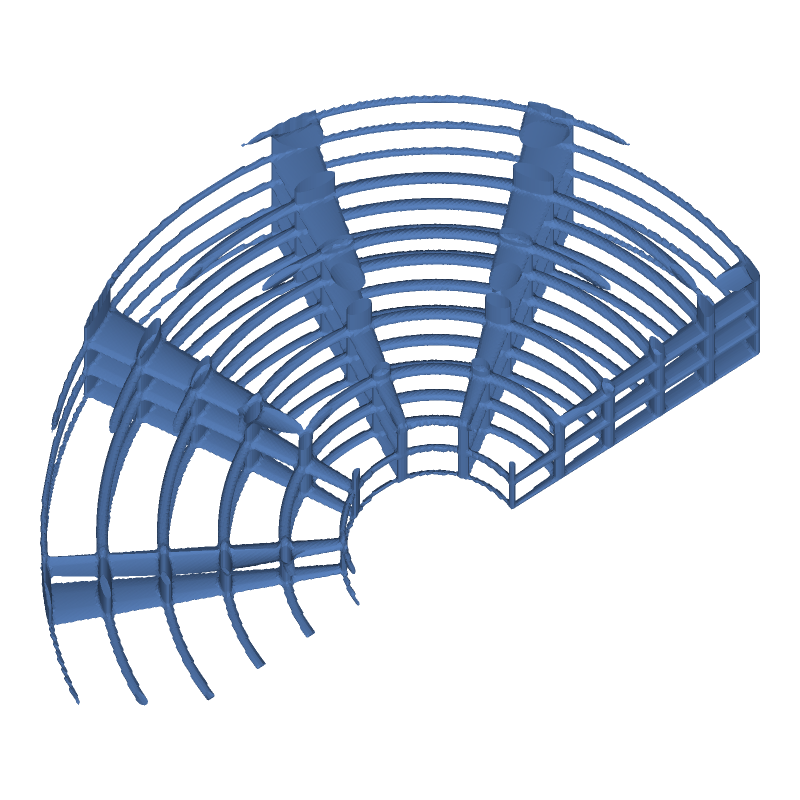
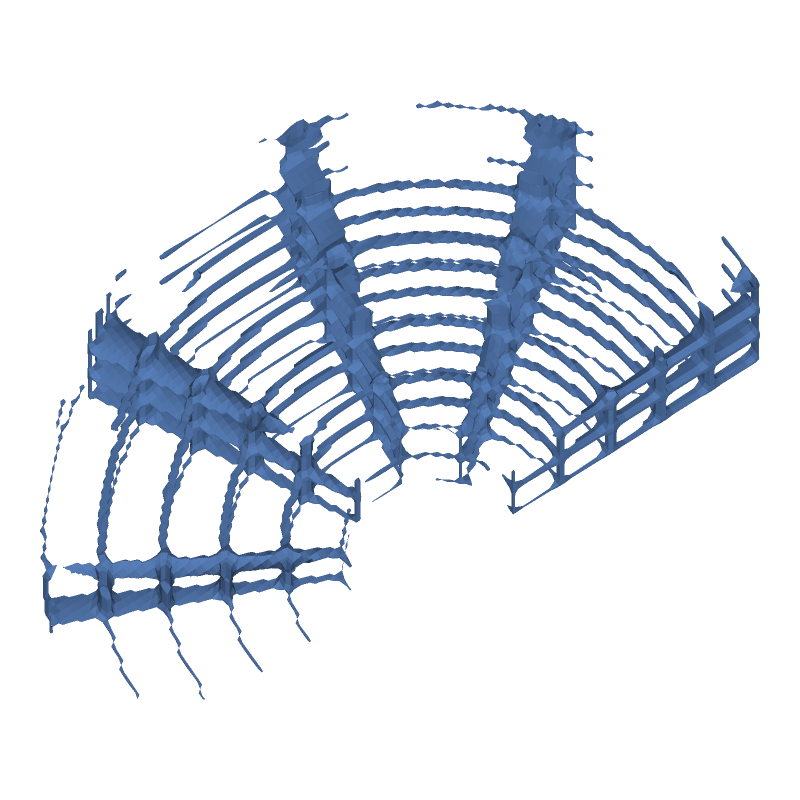
C1: angle-preserving log-polar conformal map (conformal_log) with constant-Lambda normalisation, 5 tests, sc_conformal_log preset (volume ratio 2.09 at res 128 vs predicted 2.044, converging), renders at res 128; sc_cylinder_wrap re-rendered; docs updated

Changed region(s): [[0.0312, 0.0938, 0.9688, 0.875], [0.3125, 0.8125, 0.3438, 0.8438]]

diff --git a/src/graph/graph.ts b/src/graph/graph.ts
@@ -38,6 +38,9 @@ export type TransformSpec =
   // Cylinder projection (C1, partial): source (s, t, z) is wrapped onto a cylinder of radius R about z.
   // s is arc length from the phase angle phi0 (s = s0 at phi0), t is the radial offset from R.
   | { op: "wrap"; radius: number; phase: number; s0: number }
+  // Conformal log-polar map (C1): w = r0 * exp((x + i y) / scale). Angle-preserving; the local scale is |w|/scale.
+  // The source y-extent must stay inside (-pi*scale, pi*scale] so the angle does not wrap.
+  | { op: "conformal_log"; r0: number; scale: number }
   | { op: "shear"; a: number; b: number; c: number }
   | { op: "gradient"; axis: "x" | "y" | "z"; slope: number; centre: number }
   // Offset-type density functions (B3): f' = f - g(x). g is a scalar field of the point.
@@ -127,6 +130,10 @@ function checkTransform(n: GraphNode & { kind: "transform" }, issues: GraphIssue
       break;
     case "stretch":
       need(isVec3(t.factors) && (t.factors as Vec3).every((f) => f > 0), "stretch: factors must be positive 3-vector");
+      break;
+    case "conformal_log":
+      need(isNum(t.r0) && (t.r0 as number) > 0, "conformal_log: r0 must be > 0");
+      need(isNum(t.scale) && (t.scale as number) > 0, "conformal_log: scale must be > 0");
       break;
     case "wrap":
       need(isNum(t.radius) && (t.radius as number) > 0, "wrap: radius must be > 0");
@@ -304,6 +311,8 @@ function inverseMap(t: TransformSpec): ((p: Vec3) => Vec3) | null {
       };
     case "stretch":
       return (p) => [p[0] / t.factors[0], p[1] / t.factors[1], p[2] / t.factors[2]];
+    case "conformal_log":
+      return conformalLog(t).inverse;
     case "wrap":
       return (p) => {
         const r = Math.hypot(p[0], p[1]);
@@ -406,6 +415,11 @@ function transformBounds(b: Bounds, t: TransformSpec): Bounds {
     if (min.some((v, a) => v >= max[a])) throw new Error("clip: the shape does not overlap the field bounds");
     return { min, max } as Bounds;
   }
+  if (t.op === "conformal_log") {
+    // The image of the box lies in the square of half-width r0 * exp(x_max / scale).
+    const R = t.r0 * Math.exp(b.max[0] / t.scale);
+    return { min: [-R, -R, b.min[2]], max: [R, R, b.max[2]] } as Bounds;
+  }
   if (t.op === "wrap") {
     const rOut = t.radius + Math.max(Math.abs(b.min[1]), Math.abs(b.max[1]));
     return { min: [-rOut, -rOut, b.min[2]], max: [rOut, rOut, b.max[2]] } as Bounds;
@@ -431,6 +445,18 @@ function transformBounds(b: Bounds, t: TransformSpec): Bounds {
   return { min, max } as Bounds;
 }
 
+/** Conformal log-polar map and its inverse (C1). Exported for tests. */
+export function conformalLog(t: { r0: number; scale: number }): { forward: (p: Vec3) => Vec3; inverse: (p: Vec3) => Vec3 } {
+  const r0 = t.r0, s = t.scale;
+  return {
+    forward: (p) => {
+      const m = r0 * Math.exp(p[0] / s), th = p[1] / s;
+      return [m * Math.cos(th), m * Math.sin(th), p[2]];
+    },
+    inverse: (p) => [s * Math.log(Math.hypot(p[0], p[1]) / r0), s * Math.atan2(p[1], p[0]), p[2]],
+  };
+}
+
 /** Angle wrapped into (-pi, pi]. */
 function wrapAngle(a: number): number {
   let x = a % (2 * Math.PI);
@@ -454,6 +480,8 @@ function forwardMap(t: TransformSpec, p: Vec3): Vec3 {
     }
     case "stretch":
       return [p[0] * t.factors[0], p[1] * t.factors[1], p[2] * t.factors[2]];
+    case "conformal_log":
+      return conformalLog(t).forward(p);
     case "wrap": {
       const phi = t.phase + (p[0] - t.s0) / t.radius, rr = t.radius + p[1];
       return [rr * Math.cos(phi), rr * Math.sin(phi), p[2]];
@@ -552,6 +580,22 @@ export function compileGraph(g: StructureGraph, structureId: string): Field {
     }
     const inv = inverseMap(t)!;
     const b = transformBounds(inner.bounds, t);
+    if (t.op === "conformal_log") {
+      // Conformal: the inverse Jacobian has norm scale/|w|, largest at the smallest radius in the source box.
+      // Lambda = sup |D inverse| = scale / (r0 * exp(x_min / scale)). Dividing by it keeps the field 1-Lipschitz,
+      // and the zero set is unchanged.
+      const xMin = (inner.bounds as { min: number[] }).min[0];
+      const lambda = t.scale / (t.r0 * Math.exp(xMin / t.scale));
+      field = {
+        bounds: b,
+        eval: (x, y, z) => {
+          const q = inv([x, y, z]);
+          return inner.eval(q[0], q[1], q[2]) / lambda;
+        },
+        expr: `(${inner.expr}) o conformal_log(r0=${t.r0}, s=${t.scale}) / ${lambda.toFixed(4)}`,
+      };
+      continue;
+    }
     if (t.op === "wrap") {
       // Wrap: the stretch rr/R varies strongly with radius, so a pointwise division by sigma(x) would add
       // a product term f*grad(1/sigma) that breaks the Lipschitz bound. Use a constant instead:

diff --git a/tests/conformal.test.ts b/tests/conformal.test.ts
@@ -1,0 +1,92 @@
+import { test } from "node:test";
+import assert from "node:assert/strict";
+import { compileGraph, validateGraph, conformalLog, type StructureGraph } from "../src/graph/graph.ts";
+
+const R0 = 16, S = 20;
+const map = conformalLog({ r0: R0, scale: S });
+
+function graph(source: object, transform: object): StructureGraph {
+  return {
+    version: 1,
+    nodes: [
+      { id: "src", kind: "field", source: source as never },
+      { id: "t0", kind: "transform", transform: transform as never },
+      { id: "out", kind: "structure", name: "conf" },
+    ],
+    edges: [{ from: "src", to: "t0" }, { from: "t0", to: "out" }],
+  };
+}
+const sphere = { type: "sphere", radius: 5 };
+const confT = { op: "conformal_log", r0: R0, scale: S };
+
+test("conformal: the Jacobian of the forward map is (|w|/scale)^2 times the identity (angles preserved)", () => {
+  const h = 1e-6;
+  for (const q of [[2, 1, 0.5], [-3, 4, -1], [0.5, -2, 2], [4.5, 0.2, 0]] as [number, number, number][]) {
+    const J: number[][] = [[0, 0], [0, 0]];
+    for (let c = 0; c < 2; c++) {
+      const a = [...q] as [number, number, number], b = [...q] as [number, number, number];
+      a[c] += h;
+      b[c] -= h;
+      const fa = map.forward(a), fb = map.forward(b);
+      J[0][c] = (fa[0] - fb[0]) / (2 * h);
+      J[1][c] = (fa[1] - fb[1]) / (2 * h);
+    }
+    const w = map.forward(q);
+    const m = Math.hypot(w[0], w[1]) / S;
+    // J is m * (rotation): J^T J = m^2 I.
+    const jtj = [
+      [J[0][0] ** 2 + J[1][0] ** 2, J[0][0] * J[0][1] + J[1][0] * J[1][1]],
+      [J[0][1] * J[0][0] + J[1][1] * J[1][0], J[0][1] ** 2 + J[1][1] ** 2],
+    ];
+    assert.ok(Math.abs(jtj[0][0] - m * m) < 1e-6 * m * m, `diag at ${q}`);
+    assert.ok(Math.abs(jtj[1][1] - m * m) < 1e-6 * m * m, `diag at ${q}`);
+    assert.ok(Math.abs(jtj[0][1]) < 1e-6 * m * m, `off-diagonal at ${q}`);
+  }
+});
+
+test("conformal: inverse of forward is the identity; z is unchanged", () => {
+  for (const q of [[2, 1, 0.5], [-3, 4, -1], [4.5, 0.2, 7]] as [number, number, number][]) {
+    const back = map.inverse(map.forward(q));
+    for (let a = 0; a < 3; a++) assert.ok(Math.abs(back[a] - q[a]) < 1e-12);
+  }
+});
+
+test("conformal: zero set of the sphere maps to the zero set of the field; interior value is scaled", () => {
+  const g = compileGraph(graph(sphere, confT), "out");
+  // Source points on the sphere |q| = 5 (y range stays well inside the angle limit).
+  for (const a of [0, 0.7, 1.9, 3.0]) {
+    const q = [5 * Math.cos(a), 5 * Math.sin(a), 0] as [number, number, number];
+    const p = map.forward(q);
+    assert.ok(Math.abs(g.eval(p[0], p[1], p[2])) < 1e-9, `zero at angle ${a}`);
+  }
+  // Interior point |q| = 2: value (2 - 5) / lambda, lambda = scale / (r0 exp(x_min/scale)) with x_min = -5.
+  const lambda = S / (R0 * Math.exp(-5 / S));
+  const q = [2, 0, 0] as [number, number, number];
+  const p = map.forward(q);
+  assert.ok(Math.abs(g.eval(p[0], p[1], p[2]) - (2 - 5) / lambda) < 1e-12);
+});
+
+test("conformal: 1-Lipschitz on the image of the source box", () => {
+  const g = compileGraph(graph(sphere, confT), "out");
+  let seed = 5;
+  const rnd = () => ((seed = (seed * 16807) % 2147483647) / 2147483647) * 10 - 5;
+  for (let i = 0; i < 300; i++) {
+    const q = [rnd(), rnd(), rnd()] as [number, number, number];
+    const d = [q[0] + 0.03, q[1] - 0.02, q[2] + 0.01] as [number, number, number];
+    const p = map.forward(q), pp = map.forward(d);
+    const dist = Math.hypot(p[0] - pp[0], p[1] - pp[1], p[2] - pp[2]);
+    const df = Math.abs(g.eval(p[0], p[1], p[2]) - g.eval(pp[0], pp[1], pp[2]));
+    assert.ok(df <= dist + 1e-9, `Lipschitz at ${q}: ${df} > ${dist}`);
+  }
+});
+
+test("conformal: bounds contain the image of the source box corners; validation", () => {
+  const g = compileGraph(graph(sphere, confT), "out");
+  for (const x of [-5, 5]) for (const y of [-5, 5]) {
+    const p = map.forward([x, y, 0]);
+    assert.ok(Math.abs(p[0]) <= g.bounds.max[0] && Math.abs(p[1]) <= g.bounds.max[1], `corner (${x},${y}) inside bounds`);
+  }
+  assert.deepEqual(validateGraph(graph(sphere, confT)), []);
+  assert.ok(validateGraph(graph(sphere, { op: "conformal_log", r0: 0, scale: 20 })).some((i) => i.code === "bad_param"));
+  assert.ok(validateGraph(graph(sphere, { op: "conformal_log", r0: 16, scale: -1 })).some((i) => i.code === "bad_param"));
+});

diff --git a/docs/STRUCTURE_GRAPH.md b/docs/STRUCTURE_GRAPH.md
@@ -34,7 +34,18 @@ Not yet implemented from B3: user expression nodes (needs a safe, sandboxed expr
 - Not volume preserving: the Jacobian is (R+t)/R, so outer material is stretched tangentially and struts thicken with radius. This is a property of wrapping, not an error; a constant strut diameter would need a per-strut radius correction (not done).
 - Tests: the source sphere's zero set maps onto the cylinder (forward/inverse consistency); 1-Lipschitz inside the domain (R = 20, sphere radius 5).
 - Preset `presets/sc_cylinder_wrap.json`: SC lattice (cell 4, 5 cells, r 0.4) wrapped on R = 6, a curved sector of about 190°. At graph_check res 96 (spacing-matched to 250): volume 1547.3 mm³ vs flat source 609.0 mm³ (ratio 2.54, close to the mean Jacobian 2.67 over t ∈ [0, 20]), 0 floating components. Render: `examples/graph_presets/sc_cylinder_wrap_iso.png`.
-- Not done from C1: conformal (harmonic) mapping on a parameter plane; general surface projection.
+- Not done from C1: harmonic (general) conformal mapping on an arbitrary parameter plane; general surface projection. The log-polar conformal map below is the one conformal case implemented.
+- Render: `examples/graph_presets/sc_cylinder_wrap_{iso,top}.png` (res 96, 57,696 triangles). Thin struts show some aliasing where they are narrow relative to the grid spacing.
+
+## Conformal log-polar map (C1, second op)
+`{ "op": "conformal_log", "r0": r0, "scale": s }`: source (x, y, z) maps to w = r0 · exp((x + i·y)/s), with z unchanged. Inverse: x = s·ln(|w|/r0), y = s·arg(w).
+- Angle preserving: the xy Jacobian is (|w|/s) times a rotation, so the local scale is |w|/s. The 3D volume scale is (|w|/s)².
+- Requirements: r0 > 0 and s > 0. The source y-extent must lie inside (−π·s, π·s] or the angle wraps.
+- Lipschitz normalisation: a constant Λ = s / (r0 · exp(x_min/s)), the largest inverse scale over the source box, divides the field. This keeps it 1-Lipschitz with the zero set unchanged. A pointwise division would break the bound (same reasoning as wrap).
+- Tests: `tests/conformal.test.ts` (5). Checks: Jacobian = (|w|/s)²·I, inverse identity, zero set and interior value on a sphere source, 1-Lipschitz on the image of the box, bounds and validation.
+- Preset `presets/sc_conformal_log.json`: SC (cell 4 mm, 5 cells, r 0.4) on the source box [0, 20]³ with r0 = 16, s = 20. The world image is a fan about 87 mm across.
+- Volume check: the transformed/source ratio falls with resolution: 2.63 (res 48), 2.23 (72), 2.16 (96), 2.09 (128). It is predicted as the mean of (|w|/s)² over x ∈ [0, 20], which is 2.044. The ratio is still converging at the resolutions run, and the source volume is itself resolution-dependent (381.8, 547.4, 609.0, 643.3 mm³). At res 128 the transformed volume is 1344.0 mm³ with 0 floating components.
+- Render: `examples/graph_presets/sc_conformal_log_{iso,top}.png` at res 128 (32,616 triangles). The res 96 render (12,844 triangles) was too aliased near the axis to inspect, so it was replaced.
 
 ## Hierarchical (multi-scale) SC source (C2, partial)
 `{ "type": "hierarchical_sc", cellSize, cells, radius, levels (1..4), divisor (2 or 3) }`.

diff --git a/docs/TASK_PLAN.md b/docs/TASK_PLAN.md
@@ -49,7 +49,7 @@ Each step has an acceptance check. A step is done only when its check passes and
 | D1 | partial: parameter sliders bound to the graph (src/graph/params.ts, tests/params.test.ts, web/graphPanel.ts). Ranges per parameter; integer parameters rounded; each release is one undo step. Expression input is the expr node text in the JSON, not a separate box. Browser click-through not run |
 | C3 | partial: open graded infill: clip transform (sphere/box, f' = max(f, sd), no closed skin) with radial grading, presets/graded_infill_sphere.json, tests/clip.test.ts. Closed shell infill not done (no-skin rule). See docs/STRUCTURE_GRAPH.md |
 | C2 | partial: hierarchical SC (union of levels, presets/hierarchical_sc.json); fractal cube skeleton with recursive corner-subcube substitution, depth 1..3 (src/graph/fractal.ts, tests/fractal.test.ts, presets/fractal_cube_d3.json). Tiling fractals over a lattice and other generators not done. See docs/STRUCTURE_GRAPH.md |
-| C1 | partial: cylinder projection (wrap transform, constant Lipschitz normalisation, zero-set and Lipschitz tests, render). Conformal harmonic mapping not done. See docs/STRUCTURE_GRAPH.md |
+| C1 | partial: cylinder projection (wrap) and angle-preserving log-polar conformal map (`conformal_log`, 5 tests, volume check converging to predicted 2.044, renders at res 128). General harmonic conformal mapping on arbitrary parameter planes and surface projection not done. See docs/STRUCTURE_GRAPH.md |
 | A1 | done: sparse sampler matches dense volume (SC, gyroid at 256). Saving 39% for SC, ~0% for TPMS. See docs/SPARSE_SAMPLING.md |
 | A3 | done: GLB writer/reader, round trip test, glTF validator 0 errors on display and full meshes. See docs/GLB_EXPORT.md |
 | A4 | partial: src/render/cutaway.ts (shared cut-away + supersampled PNG), scripts/render_fine.ts, examples/fine_256 (sc, gyroid, schwarz_p, 1600 px, 4 views). Exact-B-Rep renders still pending (see Phase B/exact). |

diff --git a/examples/graph_presets/README.md b/examples/graph_presets/README.md
@@ -19,6 +19,7 @@ with `scripts/render_graph.ts <preset> <res> examples/graph_presets`.
 | `graded_infill_sphere` | Hierarchical SC (2 levels, cell 8, r 0.5) + radial grading, clipped to sphere R 10 | radial offset, sphere clip | 240 | 210.5 (coarse grid: 201.9) | 0 | Open infill: struts end on the sphere, no closed skin |
 | `gyroid_wrap_box` | Gyroid (cell 4 mm, 5 cells, t 0.5) wrapped on R = 10, clipped to box x,y ±30, z 0..20 | wrap, box clip | 240 (graph_check 96 → 288) | 5727.8 (flat source 2864.0 at 96) | 3 (0.05 mm³) | Ratio 2.00 = mean Jacobian (R+t)/R for t in [0, 20]; open sheet with box-cut edges, no closed skin |
 | `sc_cylinder_wrap` | SC, cell 4 mm, r 0.4, 5 cells | wrap onto cylinder R = 6 | 250 (spacing-matched from 96) | 1547.3 | 0 | Source 609.0. Volume ratio 2.54 ≈ mean Jacobian (R+t)/R; struts thicken outward |
+| `sc_conformal_log` | SC, cell 4 mm, r 0.4, 5 cells, box [0,20]³ | conformal log-polar map, r0 = 16, s = 20 | 128 (graph_check 128 → 557) | 1344.0 (source 643.3 at 128) | 0 | Angle-preserving fan. Ratio 2.09 at res 128, still converging to the mean Jacobian 2.044 (2.63 at res 48). Field-based; renders at res 128 |
 
 ## Resolution and convergence
 - `res` is the number of grid cells over the largest bounding dimension. Transforms that enlarge the

diff --git a/docs/GRAPH_EXAMPLES.md b/docs/GRAPH_EXAMPLES.md
@@ -76,4 +76,10 @@ so the source spacing is kept; `res` is the source resolution.
 
 - No exact B-Rep, STEP, or GLB for any of them. Exact lattice work is tracked in `docs/EXACT_LATTICES.md`.
 - No closed outer skin (by the no-skin rule). Clip is the only boundary operation.
-- No lattice tiling of the fractal, and no conformal mapping (C1).
+- No lattice tiling of the fractal, and no general (harmonic) conformal mapping (C1). The log-polar map is implemented; see `docs/STRUCTURE_GRAPH.md`.
+
+## 9. `sc_conformal_log` — lattice under an angle-preserving log-polar map
+- Chain: SC lattice (cell 4 mm, 5 cells, r 0.4, source box [0, 20]³) → conformal log-polar map w = r0·exp((x + i·y)/s), r0 = 16 mm, s = 20 mm.
+- Shows: the conformal case of C1. Cells keep their angles and grow with radius; the field is 1-Lipschitz (constant Λ normalisation).
+- Volume: the transformed/source ratio approaches the predicted mean Jacobian 2.044 as resolution rises (2.09 at res 128).
+- Render: `sc_conformal_log_{iso,top}.png` at res 128. Field-based (non-exact).
